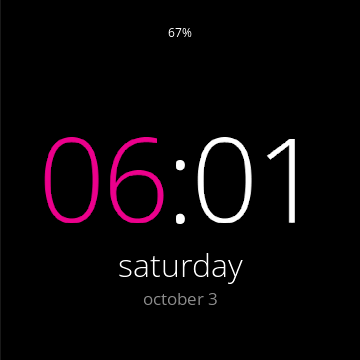
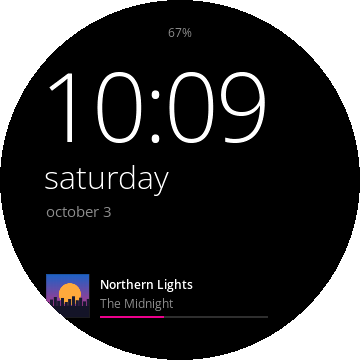
Zune docs: update 2 changelog, new screenshots and gallery

diff --git a/docs/ZUNE.md b/docs/ZUNE.md
@@ -12,16 +12,37 @@ there. You can switch between Zune and the other themes at any time.
 > to describe the visual style. It uses no Microsoft assets: the type is Open Sans (SIL OFL 1.1) and every
 > icon and layout is drawn from scratch.
 
+## What's new
+
+**Update 2 (October 2026):**
+- A typographic Now Playing, with an Immersive view (swipe up).
+- Quickplay, and a Metro lock screen with a desk clock while charging.
+- A light mode.
+- Rim scrolling in every list, and letter jump round the rim.
+- A rim keyboard with a space key.
+- A bigger-target equalizer.
+- A new boot splash and power-off screen.
+- A gesture guide.
+
+Last.fm, Boomshine, SongSphere and Album Roulette are removed. The full list is in [the changelog](zune/CHANGELOG.md).
+
 ## What you get
 
 | | |
 |---|---|
-| ![home](zune/screens/home.png) | **Home**: one big lowercase list (now playing, music, queue, search, equalizer, modes, bluetooth, wi-fi, weather, apps, settings). It loops endlessly and scrolls freely. |
-| ![now playing](zune/screens/now-playing.png) | **Now Playing**: the cover in the background with the seek ring on the rim, plus large title/artist text and the format line. Optionally takes its accent from the album art. |
-| ![settings](zune/screens/settings.png) | **Settings and lists**: one looping dial that scrolls with momentum. The rows follow the round screen. |
-| ![working mode](zune/screens/working-mode.png) | **Working mode**: six circles, including **usb-c audio** for USB-C headphones or a DAC, next to BT receiver, USB DAC, AirPlay and USB storage. |
-| ![wifi](zune/screens/wifi-connecting.png) | **Wi-Fi and Bluetooth**: scanning spins an accent arc on the rim. Connecting and failed are full-screen takeovers. |
-| ![lock](zune/screens/lock-music.png) | **Lock screen**: album art or clock only. Charging, library scan, search, EQ and accent picker are themed as well. |
+| ![home](zune/screens/home.png) | **Home**: one big lowercase list (now playing, music, quickplay, queue, search, equalizer, modes, bluetooth, wi-fi, weather, apps, settings). It loops endlessly and scrolls freely, with the playing album drifting behind it. |
+| ![now playing](zune/screens/now-playing.png) | **Now Playing**: the cover, large title and artist, the time and the format, with the seek ring on the rim. Swipe sideways to skip, and swipe up for Immersive. |
+| ![immersive](zune/screens/immersive.png) | **Immersive**: the full-screen cover with big controls and optional synced lyrics. |
+| ![quickplay](zune/screens/quickplay.png) | **Quickplay**: the albums played last and the albums added last. Tap a cover to open it, or hold to play. |
+| ![lock](zune/screens/lock-screen.png) | **Lock screen**: a big clock, the date, the weather and what's playing. One tap unlocks. |
+| ![desk clock](zune/screens/desk-clock.png) | **Desk clock**: while charging, the lock screen stays on as a dim clock. |
+| ![equalizer](zune/screens/equalizer.png) | **Equalizer**: big − / + buttons and band arrows, with no tiny handles to hit. |
+| ![keyboard](zune/screens/keyboard.png) | **Rim keyboard**: slide round the edge to pick letters, with a big preview of the current letter. |
+| ![letter jump](zune/screens/letter-wheel.png) | **Letter jump**: drag the letter badge in a long list and A–Z wraps the rim. |
+| ![output](zune/screens/output-picker.png) | **Output picker**: headphones, USB-C, SPDIF and more. Working mode has **usb-c audio** for USB-C headphones or a DAC. |
+| ![weather](zune/screens/weather.png) | **Weather**: today's temperatures round the rim, with the current hour highlighted. |
+| ![light](zune/screens/home-light.png) | **Light mode**: every screen in a light variant, switched by hand or by the time of day. |
+| ![boot](zune/screens/boot.png) | **Boot and power-off**: "disc" with your album covers filling in behind it, and the same screen in reverse when switching off. |
 
 Behaviour worth knowing:
 
@@ -32,6 +53,9 @@ Behaviour worth knowing:
   will not skip through songs with nothing plugged in.
 - At 2% battery a shutdown countdown appears after two readings in a row. Plugging in cancels it.
 - Locking blanks the screen fully: a black cover is drawn and the backlight is switched off.
+- The Disc starts with an empty queue. To load the last song at start-up, turn on Settings > Playback > **Resume Last Song**.
+- Drag a finger round the rim to scroll any list. A swipe in from the left edge goes back.
+- Settings > Help > **Gesture Guide** shows the gestures again.
 
 ## Install
 
@@ -127,7 +151,7 @@ Before you open a pull request, run `make -C ui check-theme` and the tests in [D
 - The power-key menu is not themed, because the player owns the long press.
 - Some deep screens (file browser, books, a few app interiors) use Zune fonts but keep the stock layout.
 - There is no install-progress screen. diskOS shows only the update dialog.
-- Not tested much yet: AirPlay, the EQ editor, the USB storage screen and sleep-timer edge cases. Reports are welcome.
+- Not tested much yet: AirPlay, the USB storage screen and sleep-timer edge cases. Reports are welcome.
 
 ## Licence and credits
 

diff --git a/docs/zune/CHANGELOG.md b/docs/zune/CHANGELOG.md
@@ -1,0 +1,53 @@
+# Zune theme changelog
+
+Changes to the Zune theme for diskOS Disco! on the FiiO Snowsky Disc. The newest update is at the top.
+
+## Update 2 (October 2026)
+
+This is everything since the first release of the theme.
+
+### New
+
+- **Typographic Now Playing.** The cover is bigger. The title and artist sit in large type, with the time and the file format underneath.
+- **Immersive view.** Swipe up on Now Playing, or tap the IMMERSIVE link under the controls, for the full-screen cover. The controls appear when it opens; tap to hide or show them. It can also show synced lyrics.
+- **Quickplay.** A new item on Home shows the albums you played last ("history") and the albums added to the card last ("new"). Tap a cover to open the album, or hold it to play.
+- **Home background.** The playing album, blurred and dimmed, drifts slowly behind the Home list. You can turn it off under Settings > Display > Appearance.
+- **Metro lock screen.** A big clock with the date, the weather, and what's playing, with its progress.
+- **Desk clock.** While the Disc charges, the lock screen stays on, dimmed, as a clock with the weather and the song. It's on by default; you can turn it off under Settings > Display > Standby.
+- **Light mode.** A light variant of the theme, which can switch with the time of day.
+- **New boot splash.** "disc" appears as soon as the screen is ready, and covers from your card fill a grid behind it.
+- **Power-off screen.** When you hold the power key, the boot screen plays in reverse: the accent ring drains while "shutting down" shows.
+- **Gesture guide.** On the first start, five short cards explain back, quick settings, Now Playing gestures, rim scrolling and letter jump. To see them again, go to Settings > Help > Gesture Guide.
+- **Resume Last Song.** By default the Disc now starts with an empty queue. To load the last song at start-up as before, turn this on under Settings > Playback.
+- **Sleep timer ring.** A thin ring on the rim shrinks while a sleep timer runs.
+- **Headphone battery.** On the Bluetooth screen, a ring round the rim shows the connected headphones' battery, when they report it.
+- **Weather now.** The weather screen highlights the current hour.
+- **Audio explainers.** Each audio option (gain, DAC filter, ReplayGain and so on) has a short line explaining what it does.
+
+### Touch and gestures
+
+- **Rim scrolling everywhere.** Drag your finger round the edge to scroll any list, including pop-ups like the output picker and song menu. A list keeps gliding for a moment after you let go.
+- **Letter jump on the rim.** In long lists, drag the round letter on the right and A–Z appears around the rim. Let go on a letter to jump to it. A plain tap still opens the letter grid.
+- **Rim keyboard.** You type by sliding round the rim, with a big preview of the letter you're on. There's now a space key.
+- **Bigger touch targets.** Album tracks, links, equalizer controls, accent swatches, weather, queue, Wi-Fi and Bluetooth rows, and the keyboard's cancel are easier to hit.
+- **Equalizer.** Big − and + buttons, with arrows to move between bands. The tiny band handles no longer need precise taps.
+- **Back swipe.** A swipe in from the left edge now has up to a second to finish.
+- **Motion.** Screens turn in and out in the Windows Phone 7 style. Quick settings slide down from the top. Pop-ups drop in. A touched list row gives a little.
+
+### Fixes
+
+- The output picker no longer gets stuck. Back always closes a pop-up before leaving the screen.
+- Shuffle All now starts on a random song instead of always the first.
+- The screen no longer dims a little on its own after start-up.
+- Idle power-off works again.
+- Touch is read more often and the screen redraws faster, so scrolling feels quicker.
+- Start-up is faster.
+
+### Removed
+
+- **Last.fm, Boomshine, SongSphere and Album Roulette.** These are removed from the code entirely, which makes the program about 7% smaller. Listening Stats and installed apps still work.
+- **The right-edge swipe on Home that opened Apps.** Apps is still in the Home list.
+
+## Update 1
+
+This was the first release: the Metro-style Zune theme, the looping dial for Home and every list, the USB-C audio mode, the output picker and the themed lock screen. See [ZUNE.md](../ZUNE.md).
